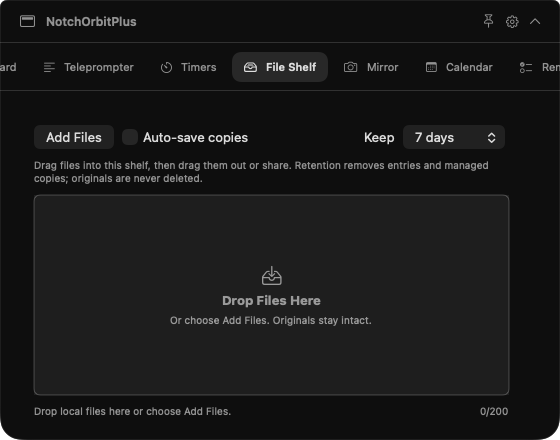
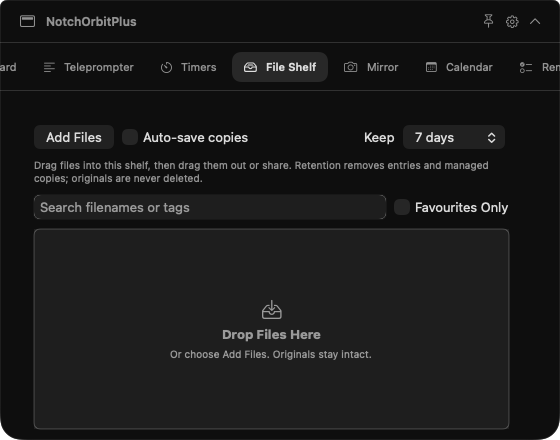
Document NotchOrbitPlus 0.2.0 features and verified app download [skip ci]

diff --git a/NotchOrbitPlus/EVALUATION.md b/NotchOrbitPlus/EVALUATION.md
@@ -1,45 +1,52 @@
 # NotchOrbitPlus evaluation
 
-NotchOrbitPlus is separate from NotchOrbit and OrbitDrop. Its twenty dashboard entries cover the nineteen explicitly named OmniNotch tools plus inherited file transformations. The public reference was captured through macOS CI on October 4, 2026; no proprietary code or OmniNotch branded assets were copied.
+NotchOrbitPlus is separate from NotchOrbit and OrbitDrop. Its 22 dashboard entries comprise the nineteen explicitly named OmniNotch reference areas, inherited File Actions, Quick Launcher and Workflows. The public reference was inspected on October 4, 2026; no proprietary code or OmniNotch branded assets were copied. The comparison records implemented scope, not complete parity with the reference product.
 
 ## Verified build
 
-[Run 37198489083](https://github.com/sknitd/orbit/actions/runs/37198489083) succeeded for source `872ea4eab4fbec98d81d622b6100d41cdf5a71ab`. The immutable [artifact commit](https://github.com/sknitd/orbit/tree/fd634cffb5e5cdac27235355dcaef539de6350fb) contains the app ZIP, checksum, build status, complete logs, SDK inventory, package verification, public responses and all 21 native PNGs.
+[Run 37209047295](https://github.com/sknitd/orbit/actions/runs/37209047295) succeeded for source `c7ed6f4a36342ea1ec6fb7a57eefab0c67aef7ce`. The immutable [artifact commit](https://github.com/sknitd/orbit/tree/33b34fdbbdb8770046b69861aa1f0ea375338aec) contains the app ZIP, checksum, build status, complete logs, SDK inventory, package verification, public responses and all 30 native PNGs.
 
 | Check | Result |
 | --- | --- |
 | Shared portable core | 37 passed |
-| NotchOrbitPlus portable core | 54 passed |
-| Hosted native tests | 24 passed, zero failures/skips |
-| Total | **115 passed** |
+| NotchOrbitPlus portable core | 84 passed |
+| Hosted native tests | 59 passed, zero failures/skips |
+| Total | **180 passed** |
 | Build SDK | Xcode 26.6 / macOS SDK 26.5 / Swift 6.3.3; arm64 macOS 26 runner |
-| Release package | Version 0.1.0; `com.sknitd.NotchOrbitPlus`; arm64 and x86_64 |
+| Release package | Version 0.2.0; `com.sknitd.NotchOrbitPlus`; arm64 and x86_64 |
 | Minimum OS | macOS 14.0 in the plist and both Mach-O slices |
-| FoundationModels | Genuine public API compiled; actual weak load command in both slices |
-| Signing and startup | Strict ad hoc signature verification and three-second startup check passed |
-| Native renders | Twenty actual dashboard tool views at the 560-point minimum width plus the file-action semicircle |
-| Public HTTP checks | Open-Meteo city search and seven-day forecast, and Frankfurter USD rates: three HTTP 200 responses, decoded by production Swift models |
+| FoundationModels | Public API compiled; actual weak load command in both slices |
+| Signing/startup | Strict ad hoc signature verification and three-second Release startup passed |
+| Native renders | 22 actual dashboard views at 560×440, five labeled compact fixtures, onboarding/update settings at 560×560, and the inherited file-action semicircle |
+| Public services | Open-Meteo city search/forecast and Frankfurter USD rates: three HTTP 200 responses decoded by production Swift models |
+| Published updates | Anonymous stable feed and its archive returned HTTP 200; source, size and SHA-256 matched this CI package |
 
[2 lines of base64/hex data omitted]
 
-Portable tests cover inherited activation/geometry/payload boundaries, deadline-based focus timers, conversion, shelf retention and local models, lyric timestamps, safe Shortcut arguments, CPU/network deltas, provider normalization, usage validation, public weather/stock schemas, dated foreign-exchange conversion and Codex quota windows.
+Independent visual review checked the native dashboard and compact captures. Setup captures retain the actual native window background; they are not edited composites. Compact music/meeting/progress states use clearly labeled fixtures, not connected user accounts. Rendering and startup do not establish physical-notch behavior.
 
-Native tests exercise genuine image/file transformations, named pasteboards and confidential-marker/image/link handling, clipboard opt-in and hidden lifecycle, and managed shelf copies that preserve original file bytes. Dashboard tests instantiate the production twenty-module factory, check settings/order/visibility, safe display geometry and suspension, validate all 3,944 official Unicode emoji and licenses, and render the real native views. Independent visual review found collapsed editor/list viewports; the final captures confirm usable Quick Note, Clipboard, To-Dos and File Shelf areas, including a visible empty shelf drop target. All twenty final dashboard captures use the minimum 560-point setting; older narrower preferences are clamped to keep provider tools inside the panel.
+## Evidence for the additions
 
-Three native Codex tests launch actual temporary subprocesses and verify the exact documented initialization/quota handshake, closed-input error without SIGPIPE termination, and cancellation that terminates only the owned child. The strict closed-channel test passed in 0.098 seconds, handshake in 0.135 seconds and cancellation in 0.386 seconds. These are protocol fixtures, not authenticated subscription reads or model calls.
+| Addition | Executed evidence and practical limit |
+| --- | --- |
+| Live notch status and meetings | Core priority/countdown/link validation; four native tests exercise actual EventKit event projection, explicit Join, unsafe/open-failure handling and five compact states. No real user calendar or playback account was connected. |
+| Quick Launcher | Three native tests resolve real folder/application bookmarks, report missing targets and reject invalid app pins without launching them. Portable tests validate stored pins and Shortcut identifiers. |
+| Saved drop workflows | Nine native tests run real resize/conversion/compression/batch-ZIP engines, decode results, verify collision handling and preserve sources through cancellation, partial failure, symlinks and concurrent replacement. Physical Finder drop remains manual acceptance. |
+| File Shelf | Metadata migration/search/favourites tests and a real Quick Look panel test verify selected-file ownership and responder restoration; managed-copy tests preserve original bytes. |
+| Clipboard OCR | Four native tests recognize actual image text, search/copy it, reject invalid/oversized images and cancel without resurrecting deleted history. Existing pasteboard/confidential-marker/opt-in tests also pass. |
+| Optional sync | Causal-merge/settings tests and eight native coordinated-file tests exercise two device identities, corrupt/oversized files, symlinks, concurrent publication and local-data preservation. Two physical Macs and cloud-provider delivery were not tested. |
+| First-run setup and updates | Actual onboarding/update views render without invoking setup actions. Four native production HTTP-client tests use isolated transport fixtures for streamed ZIP verification, checksum/size/HTTP failures and cleanup. A native installer test rejects an unsigned candidate without replacing the running app. The published public channel/archive were separately fetched and verified. Trusted signed installation and notarization remain unverified. |
 
-The public probes used Berlin coordinates without account credentials at `2026-10-04T11:22:30.563322+00:00`. Frankfurter's returned rate date was `2026-10-02`, retained explicitly rather than represented as today's trading rates. All three native production-decoder checks ran and passed; none were skipped.
+Sync is off until a shared folder is selected and enabled. It shares notes, tasks and an allowlist of dashboard/opening settings; account credentials, clipboard, shelf files and launcher bookmarks stay local. Folder data is readable to whoever can access that folder. Cross-Mac delivery depends on the chosen folder provider.
 
-## Feature scope and remaining acceptance
+All update automation starts off. This ad hoc build can check/download verified updates for manual installation. Automatic installation requires a trusted Developer ID signed running application and a same-team notarized update. The signing/notarization pipeline is implemented, but the CI credential-presence report confirms Apple signing/notary credentials are absent. This package is **not notarized**.
 
-The reference's marketing count is twenty; its visible text/HTML explicitly names nineteen. The app adds its existing File Actions as the twentieth entry. These material differences remain:
+## Remaining scope and Mac acceptance
 
-- AI Usage supports an explicit live Codex quota read through the installed CLI's documented `account/rateLimits/read` protocol, with initialization only and no model/thread/turn/tool calls. Other providers use selected normalized local reports. Automatic signed-in account collection for Claude, Cursor, Copilot and Grok is not implemented; credentials are not extracted. The protocol is pinned to public `openai/codex` commit `afb436df8b70bb5bc57b86d9a3e829968988cd21`. Live user-account acceptance remains pending.
-- Now Playing supports Music and Spotify through public Automation. Synced lyrics require a local timestamped LRC file. System-wide player discovery, browser playback and automatic lyrics are not claimed.
-- Ask Orbit uses genuine weak-linked FoundationModels and requires an eligible macOS 26+ Apple Intelligence configuration. Unsupported systems show availability information. Model inference on eligible hardware remains untested.
-- Stocks requires the user's Alpha Vantage credential; quote delay and intraday access depend on its plan. Weather uses Open-Meteo rather than WeatherKit. Public weather and FX were verified; credentialed stock refresh was not.
-- Sales requires each user's read-authorized merchant credentials. Seven real read-only adapters and schema/currency fixtures are implemented, but authenticated accounts, scopes, complete pagination and merchant totals remain unverified. The UI labels current UTC creation-day gross paid amounts, available order-attached refunds, bounded ten-page coverage, dated USD conversion and missing currencies. These are not net revenue or refunds processed today.
+- AI Usage supports explicit live Codex quota through a selected installed CLI's documented `account/rateLimits/read` protocol. Other providers use normalized imported reports. Native subprocess tests validate the handshake and cancellation with fixtures, not authenticated subscription reads. No model/thread/turn/tool calls or credential extraction occur.
+- Now Playing supports Music/Spotify through Automation and imported timestamped LRC lyrics. System-wide discovery, browser playback and automatic lyrics are not implemented.
+- Ask Orbit uses weak-linked FoundationModels and requires eligible macOS 26+ Apple Intelligence. Model inference on eligible hardware remains untested.
+- Stocks requires the user's Alpha Vantage credential and plan. Public weather and FX were verified; credentialed stock refresh was not. FX preserves the provider's returned rate date.
+- Sales has seven read-only adapters and schema/currency tests, but real account credentials/scopes/totals are unverified. It labels current UTC creation-day gross paid amounts, available order-attached refunds, ten-page coverage and dated USD conversion; these are not net revenue or refunds processed today.
 
-Interactive acceptance must be performed on a real Mac: physical-notch/notchless layout, Retina/secondary displays, hover/click/delay, Cmd-Control-N, pinning and tool order/hiding, camera start/stop/permission denial, Music/Spotify controls and imported lyrics, Calendar permission/event reads, Reminders permission/reads/completion, AirDrop recipients, shelf retention and dragging, clipboard confidential sources, sleep recovery, teleprompter scrolling, installed shortcut execution and provider refresh/errors/rate limits. Measure idle CPU/memory, responsiveness, VoiceOver, Reduce Motion, Spaces and fullscreen behavior. Native rendering, temporary-file tests and startup smoke do not establish these results.
-
-The app is ad hoc signed and not notarized. Developer ID signing and Apple notarization are unavailable from current repository credentials. Each Mac requires its own permission grants and provider setup.
+Real-Mac acceptance remains for physical-notch/notchless and secondary-display geometry; Finder dragging; hover/click/delay and keyboard toggle; camera, Calendar, Reminders and Automation consent; Music/Spotify playback; AirDrop/Quick Look interactions; installed app/Shortcut launching; two-Mac sync and provider conflicts; login registration; notarized updates and recovery; sleep/Spaces/fullscreen; VoiceOver/Reduce Motion and idle CPU/memory. Each Mac needs its own permission grants and integration setup. Native rendering, temporary-file tests and startup smoke do not establish these results.

diff --git a/NotchOrbitPlus/README.md b/NotchOrbitPlus/README.md
@@ -6,7 +6,7 @@ The dashboard now has **22 tools**, including Quick Launcher and saved Workflows
 
 ## Install and open
 
-[**Download NotchOrbitPlus.app.zip**](https://github.com/sknitd/orbit/raw/fd634cffb5e5cdac27235355dcaef539de6350fb/NotchOrbitPlus.app.zip) · [SHA-256 checksum](https://github.com/sknitd/orbit/blob/fd634cffb5e5cdac27235355dcaef539de6350fb/NotchOrbitPlus.app.zip.sha256)
+[**Download NotchOrbitPlus.app.zip**](https://github.com/sknitd/orbit/raw/33b34fdbbdb8770046b69861aa1f0ea375338aec/NotchOrbitPlus.app.zip) · [SHA-256 checksum](https://github.com/sknitd/orbit/blob/33b34fdbbdb8770046b69861aa1f0ea375338aec/NotchOrbitPlus.app.zip.sha256)
 
 The universal app targets **macOS 14 or later**, on Apple Silicon and Intel. Developer tools are not needed to run it. If this repository is private, sign in to GitHub with access before downloading.
 
@@ -18,12 +18,12 @@ The universal app targets **macOS 14 or later**, on Apple Silicon and Intel. Dev
 
 The development app is ad hoc signed and **not notarized**. If macOS blocks it, try opening it, then use System Settings → Privacy & Security → Open Anyway if offered. Each Mac needs its own permission grants and integration setup. Developer tools are not required to run the packaged app.
 
-This is version **0.1.0**, built from source `872ea4eab4fbec98d81d622b6100d41cdf5a71ab` by [macOS CI run 37198489083](https://github.com/sknitd/orbit/actions/runs/37198489083). All **115 tests passed**: 37 shared core, 54 NotchOrbitPlus core and 24 hosted native tests, with no failures or skips. Universal Release compilation, strict signature verification and startup checks passed. Native tests rendered all twenty dashboard tools; public weather and foreign-exchange responses were fetched and decoded successfully. See [EVALUATION.md](EVALUATION.md) for evidence and remaining Mac/account checks.
+This is version **0.2.0**, built from source `c7ed6f4a36342ea1ec6fb7a57eefab0c67aef7ce` by [macOS CI run 37209047295](https://github.com/sknitd/orbit/actions/runs/37209047295). All **180 tests passed**: 37 shared core, 84 NotchOrbitPlus core and 59 hosted native tests, with no failures or skips. Universal Release compilation, strict signature verification and startup checks passed. The build produced 30 native previews, including all 22 tools and five labeled closed-notch fixtures. Public weather/foreign-exchange responses and the published update feed/package were verified. See [EVALUATION.md](EVALUATION.md) for evidence and remaining Mac/account checks.
 
 ZIP SHA-256:
 
 ```text
[2 lines of base64/hex data omitted]
 ```
 
 ## Tools and requirements
@@ -111,12 +111,18 @@ The independent workflow `.github/workflows/notchorbitplus.yml` uses a real macO
 
 ## Native previews
 
-These are captures of the actual native panels from the verified build. They show the dashboard's converter, file shelf and note editor, followed by the inherited file-action semicircle. Interactive Finder dragging and physical-notch placement still need Mac acceptance.
+These are captures of the actual native views from the verified build. Dashboard previews use the minimum 560-point width. The processing strip is a labeled fixture demonstrating real production rendering; it does not show a user's active files or accounts. Interactive Finder dragging and physical-notch placement still need Mac acceptance.
 
-![Converter in the NotchOrbitPlus dashboard](docs/NotchOrbitPlus-Dashboard-converter.png)
+![Quick Launcher with native pin controls](docs/NotchOrbitPlus-Dashboard-launcher.png)
 
-![File Shelf with its visible native drop area](docs/NotchOrbitPlus-Dashboard-fileShelf.png)
+![Saved resize, conversion, compression and ZIP workflow with native drop target](docs/NotchOrbitPlus-Dashboard-workflows.png)
 
-![Quick Note multiline editor](docs/NotchOrbitPlus-Dashboard-quickNote.png)
+![Closed-notch processing status, labeled test fixture](docs/NotchOrbitPlus-Compact-fixture-processing.png)
+
+![File Shelf with its native drop area, search and favourites](docs/NotchOrbitPlus-Dashboard-fileShelf.png)
+
+![First-run setup in its native window](docs/NotchOrbitPlus-Onboarding.png)
+
+![Update settings in their native window](docs/NotchOrbitPlus-Distribution.png)
 
 ![NotchOrbitPlus native file-action semicircle](docs/NotchOrbitPlus-Convert.png)

diff --git a/README.md b/README.md
@@ -4,7 +4,7 @@ Three native macOS utilities share local file transformation engines:
 
 | App | How to open file actions | Download and setup |
 | --- | --- | --- |
-| **NotchOrbitPlus** | 22 tools, live music/meeting/progress status, Quick Launcher, saved drop workflows, shelf organization, clipboard OCR and optional sync. | [Download NotchOrbitPlus.app.zip](https://github.com/sknitd/orbit/raw/fd634cffb5e5cdac27235355dcaef539de6350fb/NotchOrbitPlus.app.zip) · [Features and setup](NotchOrbitPlus/README.md) |
+| **NotchOrbitPlus** | 22 tools, live music/meeting/progress status, Quick Launcher, saved drop workflows, shelf organization, clipboard OCR and optional sync. | [Download NotchOrbitPlus.app.zip](https://github.com/sknitd/orbit/raw/33b34fdbbdb8770046b69861aa1f0ea375338aec/NotchOrbitPlus.app.zip) · [Features and setup](NotchOrbitPlus/README.md) |
 | **NotchOrbit** | Drag files toward the MacBook notch or display's top center. No modifier key; actions appear in a native semicircle. | [Download NotchOrbit.app.zip](https://github.com/sknitd/orbit/raw/22d4fddbf7dda0beb49e88219c3087a5f6a63f83/NotchOrbit.app.zip) · [Setup and preview](NotchOrbit/README.md) |
 | **OrbitDrop** | Drag files and hold Shift to open a radial wheel near the pointer. | [OrbitDrop download and installation](#download-and-install) |
 
